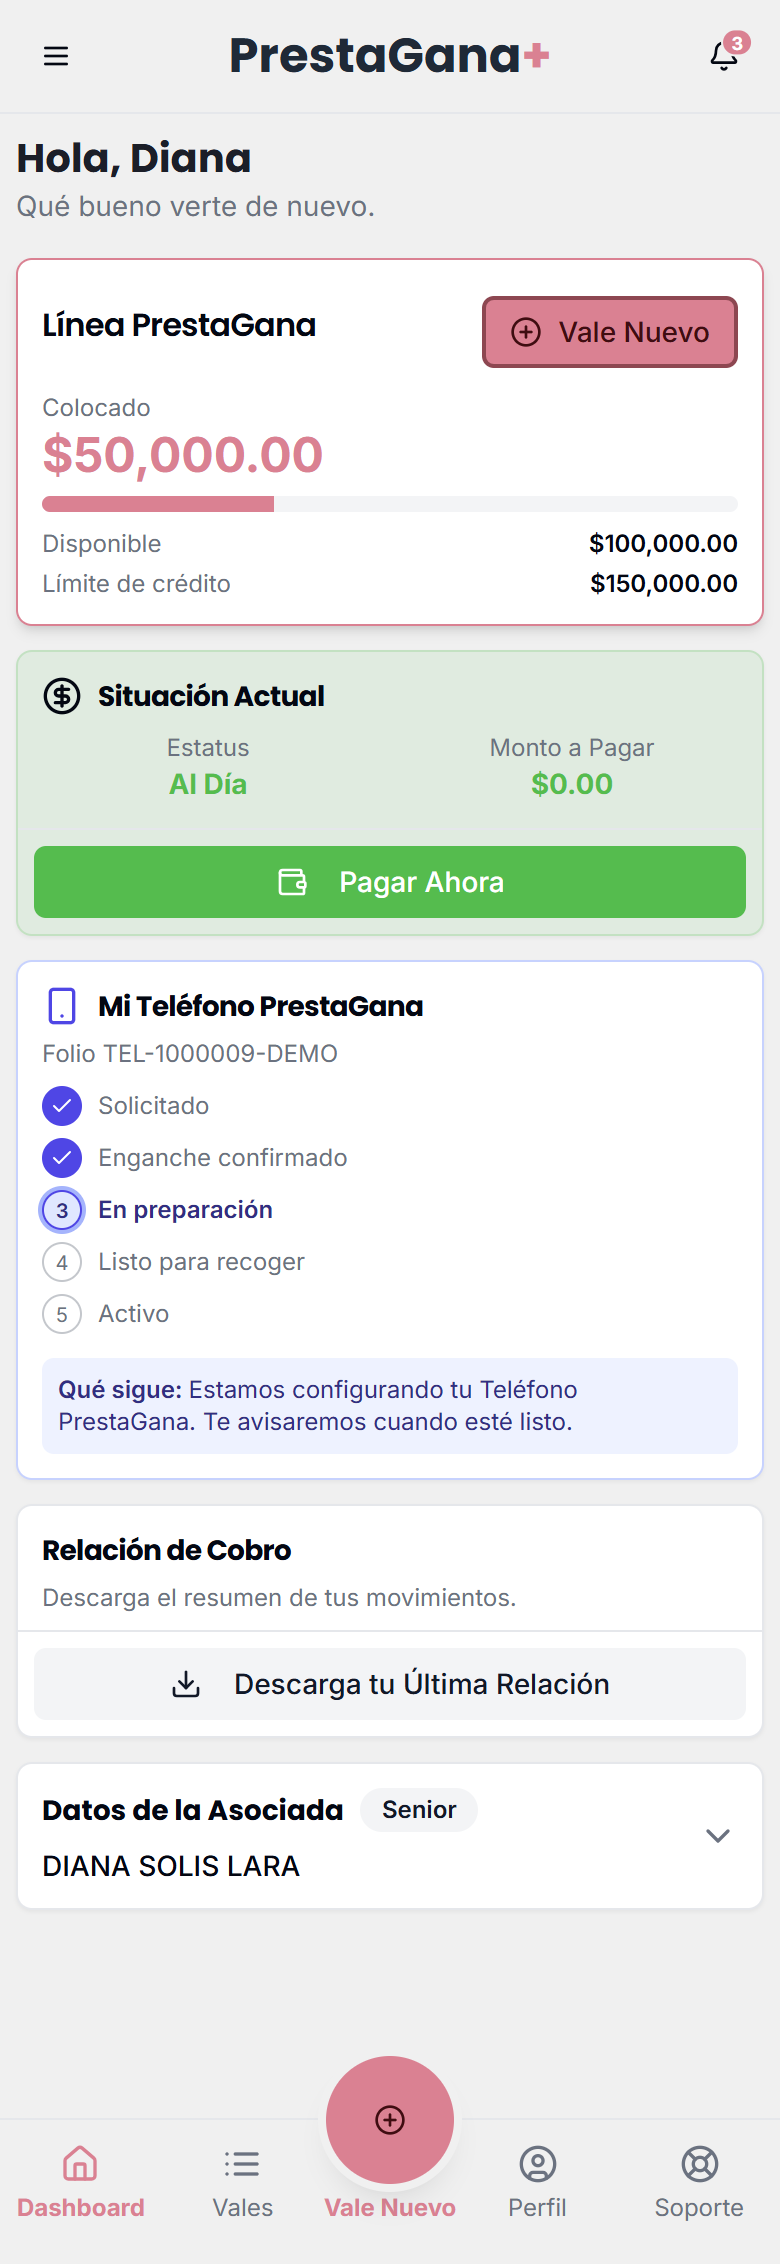
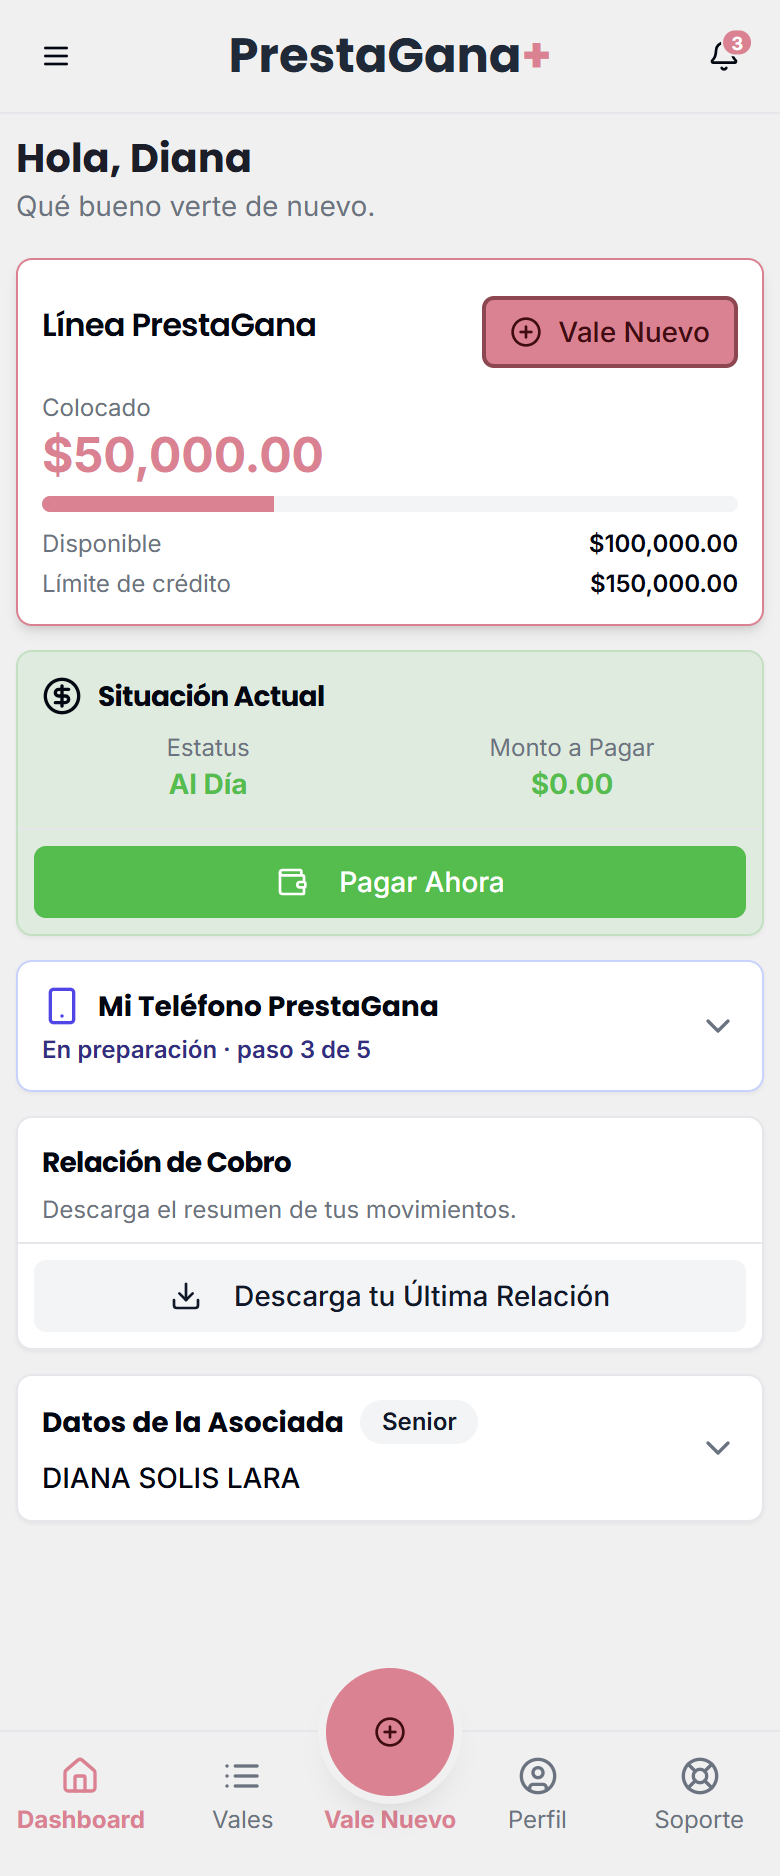
Make the phone tracker card collapsible
- "Mi Telefono PrestaGana" is collapsed by default and shows a summary:
  current step (paso n de 5), reported/deactivated or cancelled, and
  the model when there is a device.
- Expanded shows folio, the five steps, "Que sigue" and the IMEI.
- Tests open the card before checking details; new e2e for the toggle.
- Spec and after screenshots updated.

diff --git a/src/components/phone-tracker.tsx b/src/components/phone-tracker.tsx
@@ -1,8 +1,11 @@
-import { Ban, Check, Smartphone, XCircle } from 'lucide-react';
+'use client';
+
+import { Ban, Check, ChevronDown, Smartphone, XCircle } from 'lucide-react';
 
 import type { PhoneRequestStatus, PhoneState } from '@/lib/types';
 import { cn } from '@/lib/utils';
-import { Card, CardContent, CardHeader, CardTitle } from './ui/card';
+import { Card } from './ui/card';
+import { Collapsible, CollapsibleContent, CollapsibleTrigger } from './ui/collapsible';
 
 const STEPS: { status: Exclude<PhoneRequestStatus, 'CANCELADO'>; label: string; todo: string }[] = [
   { status: 'SOLICITADO', label: 'Solicitado', todo: 'Transfiere el enganche a la CLABE de tu línea. Se registra automáticamente.' },
@@ -12,83 +15,114 @@ const STEPS: { status: Exclude<PhoneRequestStatus, 'CANCELADO'>; label: string; 
   { status: 'ACTIVO', label: 'Activo', todo: 'Tu equipo está activo. Desde ahora tus vales se emiten desde él.' },
 ];
 
-/** Tarjeta del dashboard: solo aparece si hay solicitud o equipo. */
+/**
+ * Tarjeta del dashboard: solo aparece si hay solicitud o equipo.
+ * Colapsada por default: muestra el resumen (estado actual); al tocarla, el avance completo.
+ */
 export function PhoneTrackerCard({ phoneState }: { phoneState: PhoneState | null }) {
   if (!phoneState || (!phoneState.solicitud && !phoneState.dispositivo)) return null;
   const { solicitud, dispositivo } = phoneState;
 
   const reported = dispositivo?.estatus === 'REPORTADO' || dispositivo?.estatus === 'REVOCADO';
+  const reportedLabel = dispositivo?.estatus === 'REVOCADO' ? 'Equipo desactivado' : 'Equipo reportado';
   // Con equipo entregado el avance llega a Activo aunque la solicitud no lo diga.
   const current: PhoneRequestStatus | undefined = dispositivo ? 'ACTIVO' : solicitud?.estatus;
   const currentIndex = STEPS.findIndex((step) => step.status === current);
 
+  let summary: { text: string; tone: 'normal' | 'muted' | 'danger' };
+  if (current === 'CANCELADO') summary = { text: 'Solicitud cancelada', tone: 'muted' };
+  else if (reported) summary = { text: reportedLabel, tone: 'danger' };
+  else if (currentIndex >= 0) summary = { text: `${STEPS[currentIndex].label} · paso ${currentIndex + 1} de ${STEPS.length}`, tone: 'normal' };
+  else summary = { text: 'En proceso', tone: 'muted' };
+
   return (
     <Card className="shadow-sm border-indigo-200" data-testid="phone-tracker">
-      <CardHeader className="p-3 pb-2">
-        <CardTitle className="font-headline text-sm font-bold flex items-center gap-2">
-          <Smartphone className="h-5 w-5 text-indigo-600" />
-          Mi Teléfono PrestaGana
-        </CardTitle>
-        {solicitud && <p className="text-xs text-muted-foreground">Folio {solicitud.folio}</p>}
-      </CardHeader>
-      <CardContent className="p-3 pt-0 space-y-3">
-        {current === 'CANCELADO' ? (
-          <p className="flex items-start gap-2 text-xs text-muted-foreground" data-testid="phone-tracker-cancelled">
-            <XCircle className="h-4 w-4 flex-shrink-0 text-destructive" />
-            Tu solicitud fue cancelada. Si quieres el equipo, puedes solicitarlo de nuevo desde Vale Nuevo → Préstamo Personal.
-          </p>
-        ) : (
-          <>
-            <ol className="space-y-1.5">
-              {STEPS.map((step, index) => {
-                const done = index < currentIndex;
-                const active = index === currentIndex;
-                return (
-                  <li
-                    key={step.status}
-                    aria-current={active ? 'step' : undefined}
-                    data-testid={active ? 'phone-tracker-current' : undefined}
-                    className={cn('flex items-center gap-2 text-xs', active ? 'font-semibold text-indigo-900' : 'text-muted-foreground')}
-                  >
-                    <span
-                      className={cn(
-                        'flex h-5 w-5 flex-shrink-0 items-center justify-center rounded-full border text-[10px]',
-                        done && 'border-indigo-600 bg-indigo-600 text-white',
-                        active && 'border-indigo-600 bg-indigo-100 text-indigo-900 ring-2 ring-indigo-300',
-                        !done && !active && 'border-muted-foreground/40'
-                      )}
-                    >
-                      {done ? <Check className="h-3 w-3" /> : index + 1}
+      <Collapsible>
+        <CollapsibleTrigger
+          className="group flex min-h-11 w-full items-center justify-between gap-3 rounded-lg p-3 text-left focus-visible:outline-none focus-visible:ring-2 focus-visible:ring-ring"
+          data-testid="phone-tracker-toggle"
+        >
+          <span className="min-w-0 space-y-1">
+            <span className="flex items-center gap-2 font-headline text-sm font-bold">
+              <Smartphone className="h-5 w-5 flex-shrink-0 text-indigo-600" />
+              Mi Teléfono PrestaGana
+            </span>
+            <span
+              className={cn(
+                'block text-xs',
+                summary.tone === 'normal' && 'font-semibold text-indigo-900',
+                summary.tone === 'muted' && 'text-muted-foreground',
+                summary.tone === 'danger' && 'font-semibold text-destructive'
+              )}
+              data-testid="phone-tracker-summary"
+            >
+              {summary.text}
+            </span>
+            {dispositivo && <span className="block truncate text-xs text-muted-foreground">{dispositivo.modelo}</span>}
+          </span>
+          <ChevronDown className="h-5 w-5 flex-shrink-0 text-muted-foreground transition-transform duration-200 group-data-[state=open]:rotate-180" />
+        </CollapsibleTrigger>
+        <CollapsibleContent className="overflow-hidden data-[state=closed]:animate-collapsible-up data-[state=open]:animate-collapsible-down">
+          <div className="space-y-3 p-3 pt-0">
+            {solicitud && <p className="text-xs text-muted-foreground">Folio {solicitud.folio}</p>}
+            {current === 'CANCELADO' ? (
+              <p className="flex items-start gap-2 text-xs text-muted-foreground" data-testid="phone-tracker-cancelled">
+                <XCircle className="h-4 w-4 flex-shrink-0 text-destructive" />
+                Tu solicitud fue cancelada. Si quieres el equipo, puedes solicitarlo de nuevo desde Vale Nuevo → Préstamo Personal.
+              </p>
+            ) : (
+              <>
+                <ol className="space-y-1.5">
+                  {STEPS.map((step, index) => {
+                    const done = index < currentIndex;
+                    const active = index === currentIndex;
+                    return (
+                      <li
+                        key={step.status}
+                        aria-current={active ? 'step' : undefined}
+                        data-testid={active ? 'phone-tracker-current' : undefined}
+                        className={cn('flex items-center gap-2 text-xs', active ? 'font-semibold text-indigo-900' : 'text-muted-foreground')}
+                      >
+                        <span
+                          className={cn(
+                            'flex h-5 w-5 flex-shrink-0 items-center justify-center rounded-full border text-[10px]',
+                            done && 'border-indigo-600 bg-indigo-600 text-white',
+                            active && 'border-indigo-600 bg-indigo-100 text-indigo-900 ring-2 ring-indigo-300',
+                            !done && !active && 'border-muted-foreground/40'
+                          )}
+                        >
+                          {done ? <Check className="h-3 w-3" /> : index + 1}
+                        </span>
+                        {step.label}
+                      </li>
+                    );
+                  })}
+                </ol>
+                {currentIndex >= 0 && !reported && (
+                  <p className="rounded-md bg-indigo-50 p-2 text-xs text-indigo-900" data-testid="phone-tracker-todo">
+                    <span className="font-semibold">Qué sigue: </span>
+                    {STEPS[currentIndex].todo}
+                  </p>
+                )}
+                {/* Equipo reportado o revocado: el "Qué sigue" explica que no se emite hasta reactivarlo. */}
+                {reported && (
+                  <p className="flex items-start gap-2 rounded-md bg-destructive/10 p-2 text-xs text-destructive" data-testid="phone-reported">
+                    <Ban className="h-4 w-4 flex-shrink-0" />
+                    <span>
+                      <span className="font-semibold">Qué sigue: </span>
+                      {reportedLabel}. No puedes emitir vales desde este equipo hasta reactivarlo en sucursal.
                     </span>
-                    {step.label}
-                  </li>
-                );
-              })}
-            </ol>
-            {currentIndex >= 0 && !reported && (
-              <p className="rounded-md bg-indigo-50 p-2 text-xs text-indigo-900" data-testid="phone-tracker-todo">
-                <span className="font-semibold">Qué sigue: </span>
-                {STEPS[currentIndex].todo}
-              </p>
+                  </p>
+                )}
+              </>
             )}
-            {/* Equipo reportado o revocado: el "Qué sigue" explica que no se emite hasta reactivarlo. */}
-            {reported && (
-              <p className="flex items-start gap-2 rounded-md bg-destructive/10 p-2 text-xs text-destructive" data-testid="phone-reported">
-                <Ban className="h-4 w-4 flex-shrink-0" />
-                <span>
-                  <span className="font-semibold">Qué sigue: </span>
-                  {dispositivo?.estatus === 'REVOCADO' ? 'Equipo desactivado' : 'Equipo reportado'}. No puedes emitir vales desde este equipo hasta reactivarlo en sucursal.
-                </span>
-              </p>
+            {/* El modelo ya está en el resumen; aquí solo el IMEI. */}
+            {dispositivo && (
+              <p className="text-xs text-muted-foreground">IMEI terminación {dispositivo.ultimos4Imei}</p>
             )}
-          </>
-        )}
-        {dispositivo && (
-          <p className="text-xs text-muted-foreground">
-            {dispositivo.modelo} · IMEI terminación {dispositivo.ultimos4Imei}
-          </p>
-        )}
-      </CardContent>
+          </div>
+        </CollapsibleContent>
+      </Collapsible>
     </Card>
   );
 }

diff --git a/tests/e2e/08-dashboard-estados.spec.ts b/tests/e2e/08-dashboard-estados.spec.ts
@@ -1,5 +1,5 @@
 import { expect, test, type Page } from '@playwright/test';
-import { NIP, captureNextServerAction, confirmNewVale, fillNewClientForm, login, replayServerAction } from './helpers';
+import { NIP, captureNextServerAction, confirmNewVale, fillNewClientForm, login, openPhoneTracker, replayServerAction } from './helpers';
 
 const ALL_DEMO = Array.from({ length: 17 }, (_, i) => String(1000001 + i));
 const PAUSED_MESSAGE = 'Reportaste tu Teléfono PrestaGana. Acude a tu sucursal para reactivarlo.';
@@ -50,6 +50,7 @@ test.describe('Equipo reportado (1000012): emisión en pausa en el dashboard', (
     const paused = page.getByTestId('issuance-paused');
     await expect(paused).toContainText('Emisión de vales en pausa.');
     await expect(paused).toContainText(PAUSED_MESSAGE);
+    await openPhoneTracker(page);
     await expect(page.getByTestId('phone-reported')).toContainText(
       'Equipo reportado. No puedes emitir vales desde este equipo hasta reactivarlo en sucursal.'
     );
@@ -121,6 +122,25 @@ test.describe('Sin cambios para las demás asociadas', () => {
       await expect(page).toHaveURL(/\/vales\/nuevo/);
     });
   }
+});
+
+test.describe('Mi Teléfono PrestaGana', () => {
+  test('colapsada por default con el resumen; se expande con el avance', async ({ context, page }) => {
+    await login(context, '1000011');
+    await page.goto('/');
+    const toggle = page.getByTestId('phone-tracker-toggle');
+    await expect(toggle).toHaveAttribute('aria-expanded', 'false');
+    await expect(toggle.getByTestId('phone-tracker-summary')).toHaveText('Activo · paso 5 de 5');
+    await expect(toggle).toContainText('Samsung Galaxy A17');
+    expect((await toggle.boundingBox())!.height).toBeGreaterThanOrEqual(44);
+    await expect(page.getByTestId('phone-tracker-todo')).toHaveCount(0);
+
+    await toggle.click();
+    await expect(toggle).toHaveAttribute('aria-expanded', 'true');
+    await expect(page.getByTestId('phone-tracker-current')).toHaveText(/Activo/);
+    await expect(page.getByTestId('phone-tracker-todo')).toBeVisible();
+    await expect(page.getByTestId('phone-tracker')).toContainText('Folio TEL-1000011-DEMO');
+  });
 });
 
 test.describe('Datos de la Asociada', () => {

diff --git a/tests/e2e/02-solicitud.spec.ts b/tests/e2e/02-solicitud.spec.ts
@@ -1,5 +1,5 @@
 import { expect, test } from '@playwright/test';
-import { login } from './helpers';
+import { login, openPhoneTracker } from './helpers';
 
 test.describe('Solicitud del teléfono', () => {
   test('crea folio, aparece el tracker y una segunda pestaña ya no puede solicitar', async ({ context, page }) => {
@@ -28,6 +28,8 @@ test.describe('Solicitud del teléfono', () => {
     await page.goto('/');
     const tracker = page.getByTestId('phone-tracker');
     await expect(tracker).toBeVisible();
+    await expect(tracker.getByTestId('phone-tracker-summary')).toHaveText('Solicitado · paso 1 de 5');
+    await openPhoneTracker(page);
     await expect(tracker.getByTestId('phone-tracker-current')).toHaveText(/Solicitado/);
     await expect(tracker.getByTestId('phone-tracker-todo')).toContainText('Transfiere el enganche a la CLABE de tu línea. Se registra automáticamente.');
 
@@ -39,6 +41,8 @@ test.describe('Solicitud del teléfono', () => {
   test('la solicitud cancelada permite volver a solicitar', async ({ context, page }) => {
     await login(context, '1000017');
     await page.goto('/');
+    await expect(page.getByTestId('phone-tracker-summary')).toHaveText('Solicitud cancelada');
+    await openPhoneTracker(page);
     await expect(page.getByTestId('phone-tracker-cancelled')).toBeVisible();
     await page.goto('/telefono');
     await expect(page.getByTestId('plan-12')).toBeVisible();

diff --git a/tests/e2e/03-tracker-cobranza.spec.ts b/tests/e2e/03-tracker-cobranza.spec.ts
@@ -1,5 +1,5 @@
 import { expect, test } from '@playwright/test';
-import { login } from './helpers';
+import { login, openPhoneTracker } from './helpers';
 
 const TRACKER_CASES = [
   { associate: '1000007', step: 'Solicitado', todo: 'Transfiere el enganche' },
@@ -15,6 +15,8 @@ test.describe('Tracker en el dashboard', () => {
       await login(context, associate);
       await page.goto('/');
       const tracker = page.getByTestId('phone-tracker');
+      await expect(tracker.getByTestId('phone-tracker-summary')).toContainText(step);
+      await openPhoneTracker(page);
       await expect(tracker.getByTestId('phone-tracker-current')).toHaveText(new RegExp(step));
       await expect(tracker.locator('[aria-current="step"]')).toHaveCount(1);
       await expect(tracker.getByTestId('phone-tracker-todo')).toContainText(todo);

diff --git a/tests/e2e/04-emision-restringida.spec.ts b/tests/e2e/04-emision-restringida.spec.ts
@@ -11,6 +11,7 @@ import {
   fillPersonalCash,
   login,
   replayServerAction,
+  openPhoneTracker,
   signWithOtp,
   stripDeviceSignature,
   tamperDeviceSignature,
@@ -144,6 +145,8 @@ test.describe('Equipo REPORTADO', () => {
     await expect(page.getByTestId('issuance-blocked')).toContainText(DEVICE_REPORTED);
     await expect(page.getByRole('button', { name: 'Enviar Código de Firma' })).toHaveCount(0);
     await page.goto('/');
+    await expect(page.getByTestId('phone-tracker-summary')).toHaveText('Equipo reportado');
+    await openPhoneTracker(page);
     await expect(page.getByTestId('phone-reported')).toContainText('Equipo reportado. No puedes emitir vales desde este equipo hasta reactivarlo en sucursal.');
   });
 });

diff --git a/tests/e2e/helpers.ts b/tests/e2e/helpers.ts
@@ -122,3 +122,9 @@ export function tamperDeviceSignature(action: CapturedAction) {
   expect(tampered).not.toBe(action.body);
   return tampered;
 }
+
+/** Abre la tarjeta "Mi Teléfono PrestaGana" del dashboard (está colapsada por default). */
+export async function openPhoneTracker(page: Page) {
+  const toggle = page.getByTestId('phone-tracker-toggle');
+  if ((await toggle.getAttribute('aria-expanded')) !== 'true') await toggle.click();
+}

diff --git a/docs/specs/dashboard-estados.md b/docs/specs/dashboard-estados.md
@@ -33,6 +33,11 @@ Asociada demo 1000013.
 - Mismo estilo de tarjeta. "Relación de Cobro" y el resto no se tocan.
 - **Cambio de alcance (pedido del dueño):** la tarjeta "Nivel" se quita. El nivel pasa a un badge junto al título de la tarjeta colapsada, solo con "Senior" o "Junior" (se quita el prefijo "Nivel " que manda la API). Si la API no manda nivel, no hay badge.
 
+## 4b. "Mi Teléfono PrestaGana" desplegable (pedido del dueño)
+- Por default **colapsada**: título, resumen del estado actual ("{paso} · paso n de 5", "Equipo reportado"/"Equipo desactivado" o "Solicitud cancelada") y el modelo si ya hay equipo. Chevron a la derecha.
+- Al tocarla se expande y muestra lo de hoy: folio, avance de 5 pasos, "Qué sigue" e IMEI.
+- Mismo patrón que "Datos de la Asociada": `Collapsible`, `aria-expanded`, área táctil ≥44px, animación.
+
 ## 5. Pruebas (DEMO_MODE=true, Playwright, 390x844)
 - Login → `/` con campana (todas las asociadas demo).
 - 1000012: aviso visible, Vale Nuevo deshabilitado en la tarjeta y en la barra, mensaje al tocar. Llamar la server action directo sigue siendo rechazado.
